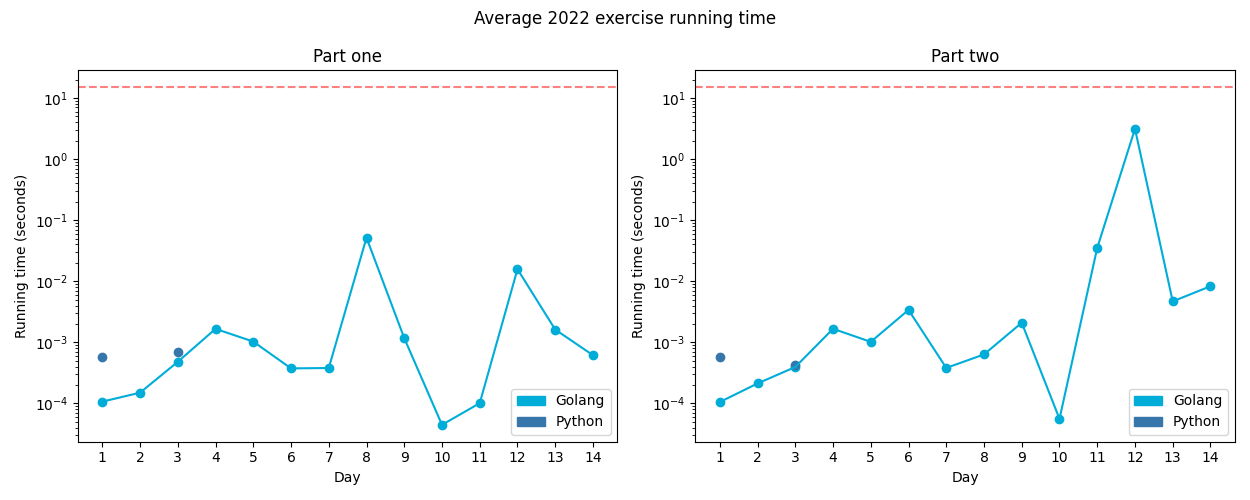
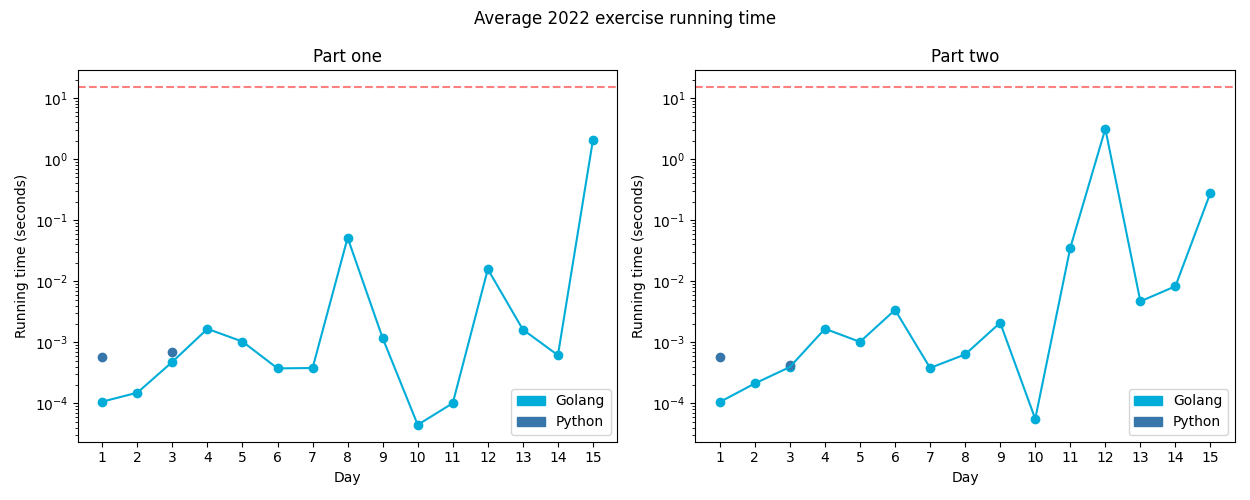
go solution for aoc22-15

diff --git a/exercises/2022/15-beaconExclusionZone/go/exercise.go b/exercises/2022/15-beaconExclusionZone/go/exercise.go
@@ -1,0 +1,156 @@
+package exercises
+
+import (
+	"fmt"
+	"image"
+	"strings"
+
+	"github.com/asphaltbuffet/advent-of-code/internal/common"
+)
+
+var (
+	TargetY = 2000000
+	TestY   = 10
+)
+
+const (
+	minBoundary int = 0
+	maxBoundary int = 4000000
+)
+
+// Sensor is the X, Y coordinates of a sensor and the closest beacon with its distance.
+type Sensor struct {
+	Location image.Point
+	Beacon   image.Point
+	Dist     int
+}
+
+// Exercise for Advent of Code 2022 day 15
+type Exercise struct {
+	common.BaseExercise
+}
+
+// One returns the answer to the first part of the exercise.
+// wrong: 4807593 (too low)
+// answer:
+func (c Exercise) One(instr string) (any, error) {
+	sensors, err := parse(instr)
+	if err != nil {
+		return nil, fmt.Errorf("parsing input: %w", err)
+	}
+
+	y := TestY
+	if len(sensors) == 23 {
+		y = TargetY
+	}
+
+	seen := map[image.Point]bool{}
+
+	for _, s := range sensors {
+		viewRange := s.Dist - abs(s.Location.Y-y)
+
+		// fmt.Printf("Sensor at %v can see %d points\n", s.Location, viewRange*2+1)
+		if viewRange > 0 {
+			for i := 0; i <= viewRange; i++ {
+				seen[image.Point{X: s.Location.X - i, Y: y}] = true
+				seen[image.Point{X: s.Location.X + i, Y: y}] = true
+			}
+		}
+	}
+
+	// remove any beacons from the seen coordinates
+	for _, s := range sensors {
+		delete(seen, s.Beacon)
+	}
+
+	return len(seen), nil
+}
+
+// Two returns the answer to the second part of the exercise.
+// answer: 11747175442119
+func (c Exercise) Two(instr string) (any, error) {
+	sensors, err := parse(instr)
+	if err != nil {
+		return nil, fmt.Errorf("parsing input: %w", err)
+	}
+
+	limit := 20
+
+	if len(sensors) == 23 {
+		limit = maxBoundary
+	}
+
+	for _, s := range sensors {
+		// not to far, not too close
+		goldilocks := s.Dist + 1
+
+		for row := -goldilocks; row <= goldilocks; row++ {
+			curRow := s.Location.Y + row
+
+			if curRow < minBoundary {
+				continue
+			}
+
+			if curRow > limit {
+				break
+			}
+
+			offsetX := goldilocks - abs(row)
+			leftX := s.Location.X - offsetX
+			rightX := s.Location.X + offsetX
+
+			if leftX >= minBoundary && leftX <= limit && !IsReachableLocation(image.Point{X: leftX, Y: curRow}, sensors) {
+				return leftX*4000000 + curRow, nil
+			}
+
+			if rightX >= minBoundary && rightX <= limit && !IsReachableLocation(image.Point{X: rightX, Y: curRow}, sensors) {
+				return rightX*4000000 + curRow, nil
+			}
+		}
+	}
+
+	return nil, fmt.Errorf("no solution found")
+}
+
+// Parse sensor and beacon data from input.
+func parse(data string) ([]Sensor, error) {
+	var sensors []Sensor
+
+	for n, line := range strings.Split(data, "\n") {
+		var s Sensor
+
+		_, err := fmt.Sscanf(line, "Sensor at x=%d, y=%d: closest beacon is at x=%d, y=%d",
+			&s.Location.X, &s.Location.Y, &s.Beacon.X, &s.Beacon.Y)
+		if err != nil {
+			return nil, fmt.Errorf("parsing line %d: %q", n, line)
+		}
+
+		s.Dist = ManhattanDistance(s.Location, s.Beacon)
+
+		sensors = append(sensors, s)
+	}
+
+	return sensors, nil
+}
+
+func ManhattanDistance(p1, p2 image.Point) int {
+	return abs(p1.X-p2.X) + abs(p1.Y-p2.Y)
+}
+
+func IsReachableLocation(p image.Point, sensors []Sensor) bool {
+	for _, s := range sensors {
+		if s.Dist >= ManhattanDistance(p, s.Location) {
+			return true
+		}
+	}
+
+	return false
+}
+
+func abs(n int) int {
+	if n < 0 {
+		return -n
+	}
+
+	return n
+}

diff --git a/exercises/2022/15-beaconExclusionZone/go/exercise_test.go b/exercises/2022/15-beaconExclusionZone/go/exercise_test.go
@@ -1,0 +1,38 @@
+package exercises
+
+import (
+	"image"
+	"testing"
+
+	"github.com/stretchr/testify/assert"
+)
+
+func Test_Parse(t *testing.T) {
+	tests := []struct {
+		name  string
+		input string
+		want  []Sensor
+	}{
+		{
+			name:  "Single line",
+			input: "Sensor at x=2, y=18: closest beacon is at x=-2, y=15",
+			want:  []Sensor{{Location: image.Point{X: 2, Y: 18}, Beacon: image.Point{X: -2, Y: 15}, Dist: 7}},
+		},
+		{
+			name:  "Single line",
+			input: "Sensor at x=9, y=16: closest beacon is at x=10, y=16\nSensor at x=13, y=2: closest beacon is at x=15, y=3",
+			want: []Sensor{
+				{Location: image.Point{X: 9, Y: 16}, Beacon: image.Point{X: 10, Y: 16}, Dist: 1},
+				{Location: image.Point{X: 13, Y: 2}, Beacon: image.Point{X: 15, Y: 3}, Dist: 3},
+			},
+		},
+	}
+
+	for _, tt := range tests {
+		t.Run(tt.name, func(t *testing.T) {
+			got, err := parse(tt.input)
+			assert.NoError(t, err)
+			assert.Equal(t, tt.want, got)
+		})
+	}
+}

diff --git a/exercises/2022/15-beaconExclusionZone/py/__init__.py b/exercises/2022/15-beaconExclusionZone/py/__init__.py
@@ -1,0 +1,12 @@
+from typing import *
+from aocpy import BaseExercise
+
+# Exercise for Advent of Code 2022 day 15
+class Exercise(BaseExercise):
+    @staticmethod
+    def one(instr: str) -> int:
+        raise NotImplementedError
+
+    @staticmethod
+    def two(instr: str) -> int:
+        raise NotImplementedError

diff --git a/exercises/2022/15-beaconExclusionZone/README.md b/exercises/2022/15-beaconExclusionZone/README.md
@@ -1,0 +1,14 @@
+# [Day 15: Beacon Exclusion Zone](https://adventofcode.com/2022/day/15)
+
+## Go
+
+```text
+2022-15 Beacon Exclusion Zone (Golang)
+
+Running...
+
+Test 1.0: pass in 0.0009 seconds
+Test 2.0: pass in 0.0000 seconds
+Part 1: 6275922 in 2.7068 seconds
+Part 2: 11747175442119 in 0.2862 seconds
+```
